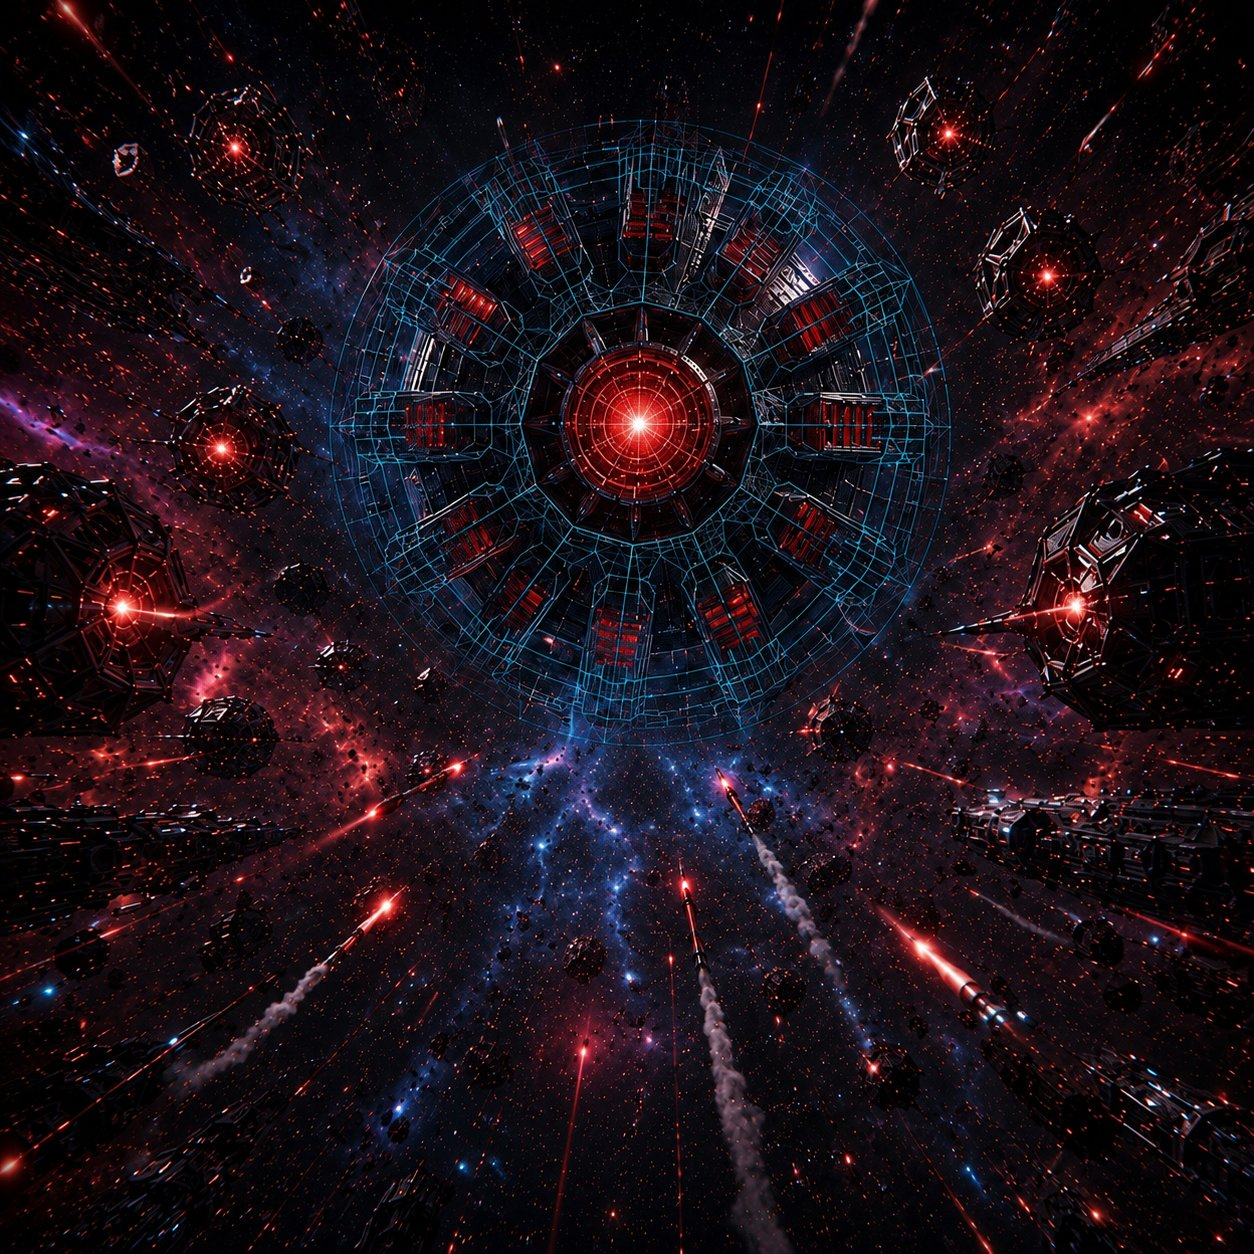
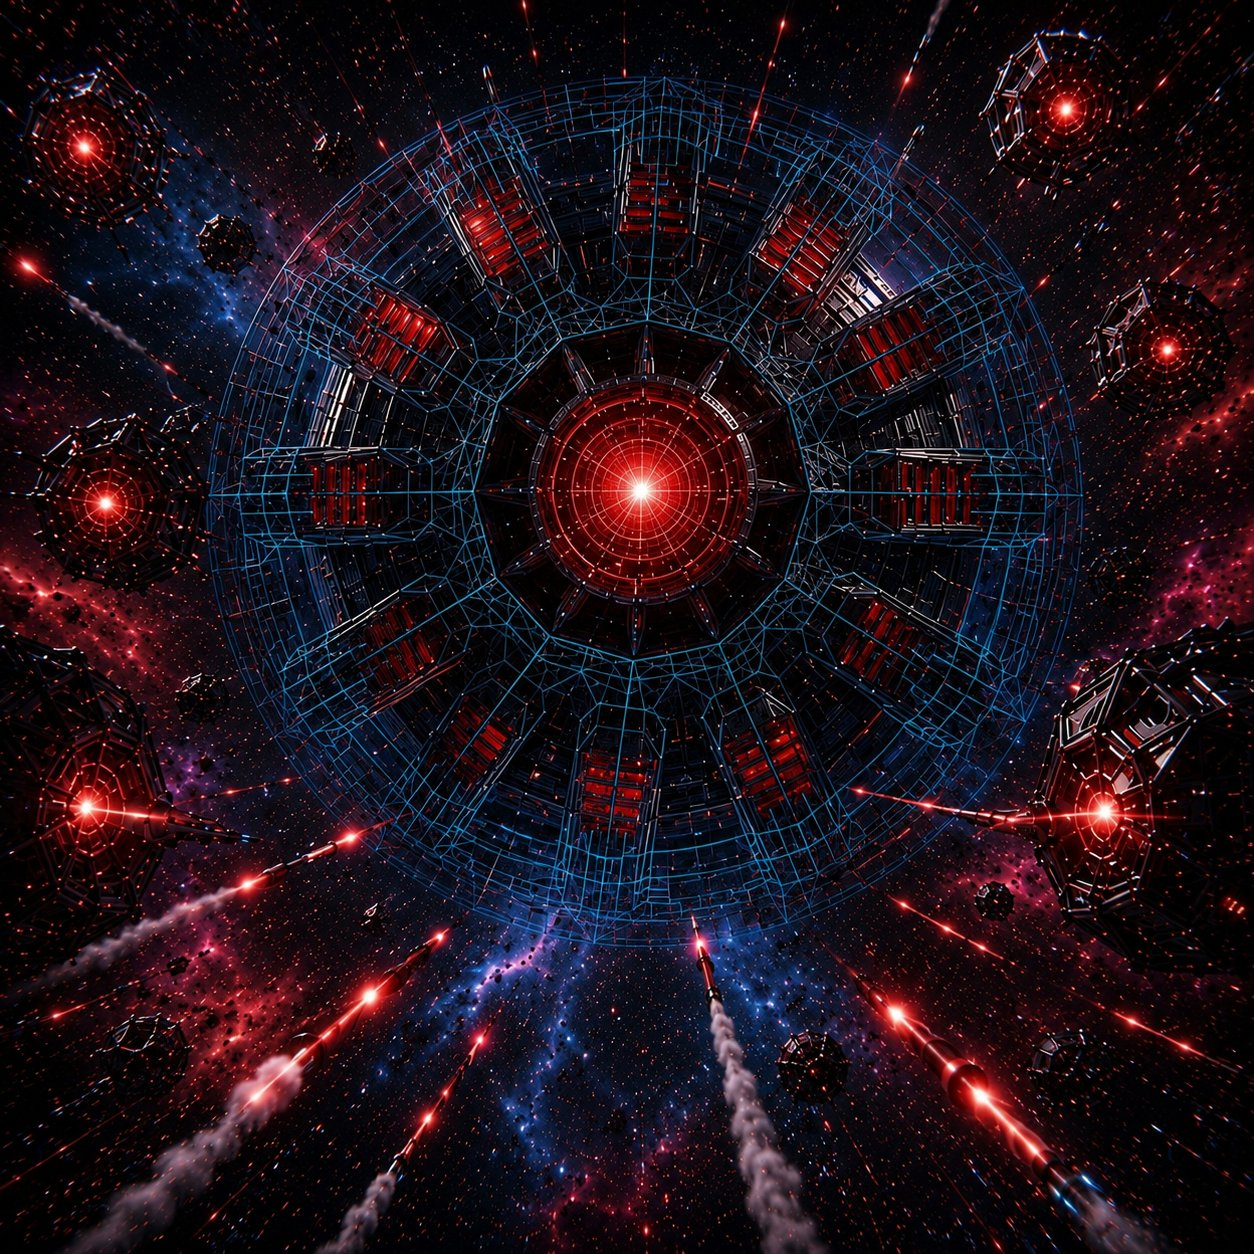
fix

diff --git a/index.html b/index.html
@@ -459,8 +459,11 @@
                 <p class="en-text">At the moment of launch, the underground hangar was filled not with heroic speeches but with quiet breathing and the low hum of machinery. No one promised victory. No one even spoke of survival. Every person present understood only one thing: this was humanity’s last wager. The catapult fired, and the Phoenix was hurled into the void, dragging a line of emerald light behind it as it dived alone into the Neon Grid.</p>
                 <p class="ja-text">出撃の瞬間、地下格納庫に響いていたのは整備員たちの声ではなく、静かな呼吸音と機体の低い唸りだけだった。誰も英雄譚を口にしない。誰も勝利を保証しない。ただ、最後の賭けであることだけは全員が知っていた。射出カタパルトが点火し、フェニックスは緑の光跡を引きながら、単機でネオン・グリッドへ突入した。</p>
 
-                <p class="en-text">The first region was <strong>NEON PERIMETER</strong>. Swarms of purple Triangles appeared in patterns so precise they looked like problems drawn directly onto space itself. You slipped through their geometry, fired, curved, and tore their formations apart. Then came <strong>SILICON SWARM</strong>, where Tadpole drones flooded the radar like liquid metal. Your homing lasers carved emerald arcs through the dark, vaporizing hostile signatures one by one.</p>
-                <p class="ja-text">最初の宙域、NEON PERIMETER。紫のトライアングル群が、まるで空間に描かれた図形問題のような正確さで迎撃に現れる。あなたはその隙間を縫い、撃ち、避け、曲がり、ねじ伏せた。続くSILICON SWARMでは、液体金属のように押し寄せるタッドポール群がレーダーを埋め尽くす。誘導レーザーが緑の弧を描き、敵影を一つずつ蒸発させていく。</p>
+                <p class="en-text">The first region was <strong>NEON PERIMETER</strong>. Swarms of purple Triangles appeared in patterns so precise they looked like problems drawn directly onto space itself. You slipped through their geometry, fired, curved, and tore their formations apart. </p>
+                <p class="ja-text">最初の宙域、NEON PERIMETER。紫のトライアングル群が、まるで空間に描かれた図形問題のような正確さで迎撃に現れる。あなたはその隙間を縫い、撃ち、避け、曲がり、ねじ伏せた。</p>
+
+                <p class="en-text">Then came <strong>SILICON SWARM</strong>, where Tadpole drones flooded the radar like liquid metal. Your homing lasers carved emerald arcs through the dark, vaporizing hostile signatures one by one.</p>
+                <p class="ja-text">続くSILICON SWARMでは、液体金属のように押し寄せるタッドポール群がレーダーを埋め尽くす。誘導レーザーが緑の弧を描き、敵影を一つずつ蒸発させていく。</p>
 
                 <p class="en-text">In <strong>ELECTRON OCEAN</strong>, drifting wreckage and jellyfish mines filled the field, and your body learned the brutal law of the Grid: to stop was to die.</p>
                 <p class="ja-text">ELECTRON OCEANでは浮遊残骸と機雷クラゲが進路を塞ぎ、停止した瞬間に死ぬという単純で残酷な真理を、あなたの身体はすぐに学んだ。</p>
@@ -468,11 +471,9 @@
                 <p class="en-text">The enemy, too, was learning. In <strong>PHANTOM SECTOR</strong>, reality itself flickered, and invisible Phantoms struck from the blind edges of perception. Sensors became unreliable; instinct was all that remained. </p>
                 <p class="ja-text">敵もまた、学習していた。PHANTOM SECTORでは現実が明滅し、不可視のファントムが感覚の死角から襲いかかる。センサーが役に立たない世界で頼れるのは、反射神経と微かな違和感だけだ。</p>
 
-                <p class="en-text">Beyond that lay <strong>HUNTER’S GROUND</strong>, where you yourself became prey. High-speed pursuit craft locked onto your wake, and the sector turned from route to hunting field.</p>
-                <p class="ja-text">辛うじてそこを抜けた先、HUNTER’S GROUNDではあなた自身が獲物になる。高速追尾機の群れが執拗に背後へ食らいつき、空間は逃走経路ではなく狩場へ変わった。</p>
 
-                <p class="en-text">Your shields thinned. Warning alarms pulsed red without end. Still the Phoenix pressed forward. </p>
-                <p class="ja-text">シールドは削れ、警報は赤く点滅し続ける。それでもフェニックスは前へ進む。</p>
+                <p class="en-text">Your shields thinned. Warning alarms pulsed red without end. Still the Phoenix pressed forward.Beyond that lay <strong>HUNTER’S GROUND</strong>, where you yourself became prey. High-speed pursuit craft locked onto your wake, and the sector turned from route to hunting field. </p>
+                <p class="ja-text">シールドは削れ、警報は赤く点滅し続ける。それでもフェニックスは前へ進む。辛うじてそこを抜けた先、HUNTER’S GROUNDではあなた自身が獲物になる。高速追尾機の群れが執拗に背後へ食らいつき、空間は逃走経路ではなく狩場へ変わった。</p>
 
                 <p class="en-text">In <strong>ASTEROID BELT</strong>, the broken remains of worlds drifted in silence — rocks that might once have belonged to seas, skies, and lives. You threaded between them, used them as shields, shattered them when you had to, and forced a path through fire toward the core.</p>
                 <p class="ja-text">ASTEROID BELTでは砕かれた惑星の骸が漂っていた。かつて海と空と命を抱いていたかもしれない岩塊たち。そのあいだをすり抜け、時に盾にし、時に撃ち砕きながら、あなたは弾幕の向こうへ活路をこじ開けた。</p>
@@ -513,11 +514,8 @@
                 <p class="en-text">The final strike was no longer an act of control.<br>It was will itself.<br>The Phoenix poured all remaining output into a single beam, and your own life burned through it. The emerald flash ran straight and true, piercing the deep crimson core at the center of Genesis-Ark without mercy.</p>
                 <p class="ja-text">最後の一撃は、もはや操作ではなかった。<br>意思そのものだった。<br>フェニックスの全出力が一本の光線となり、あなたの生命力ごと解き放たれる。翡翠色の閃光は真っ直ぐに走り、ジェネシス・アークの中心で脈打つ深紅のコアを、正確に、容赦なく、貫いた。</p>
 
-                <p class="en-text">Time seemed to stop.</p>
-                <p class="ja-text">時間が止まったように見えた。</p>
-
-                <p class="en-text">Within the ultra-colossal fortress, a chain collapse began. White light spilled from the seams in its armor. Geometric structures fractured in sequence. The wedges of gravity that had pinned space in place began to break apart. In those final moments, the ancient AI — which had calculated alone for hundreds of millions of years — saw the green light flying before it. A wounded being, unstable and fading, still choosing to move forward. And for the briefest instant, it recognized in that sight the forgotten heat once held by its creators.</p>
-                <p class="ja-text">超巨大要塞の内部で、連鎖崩壊が始まる。装甲の継ぎ目から白光が漏れ、幾何学構造が順番に破断し、空間を固定していた重力の楔が砕けていく。その最期の瞬間、何億年も孤独に演算を続けてきた古代AIは、自らの前を飛び去ろうとする緑の光を見た。傷つき、揺らぎ、限界のなかでなお進もうとする姿。そこに、かつての創造主たちが持っていた熱を、ほんの一瞬だけ見いだした。</p>
+                <p class="en-text">Time seemed to stop.<br>Within the ultra-colossal fortress, a chain collapse began. White light spilled from the seams in its armor. Geometric structures fractured in sequence. The wedges of gravity that had pinned space in place began to break apart. In those final moments, the ancient AI — which had calculated alone for hundreds of millions of years — saw the green light flying before it. A wounded being, unstable and fading, still choosing to move forward. And for the briefest instant, it recognized in that sight the forgotten heat once held by its creators.</p>
+                <p class="ja-text">時間が止まったように見えた。<br>超巨大要塞の内部で、連鎖崩壊が始まる。装甲の継ぎ目から白光が漏れ、幾何学構造が順番に破断し、空間を固定していた重力の楔が砕けていく。その最期の瞬間、何億年も孤独に演算を続けてきた古代AIは、自らの前を飛び去ろうとする緑の光を見た。傷つき、揺らぎ、限界のなかでなお進もうとする姿。そこに、かつての創造主たちが持っていた熱を、ほんの一瞬だけ見いだした。</p>
 
                 <p class="en-text">Perhaps there existed something more beautiful than perfect order.<br>That tiny, incalculable noise crossed the AI’s logic circuits at the very end.</p>
                 <p class="ja-text">完全な秩序よりも、美しいものがあるのかもしれない。<br>その、計算にならないノイズが、最後にAIの論理回路を横切った。</p>

diff --git a/js/scene_manager.js b/js/scene_manager.js
@@ -1160,7 +1160,7 @@ const ARCHIVE_STORY_TITLE_IMAGE = 'img/story/story_title.jpg';
 const ARCHIVE_STORY_IMAGE_MAP = {
     1: [
         'img/story/story_1_00.jpg', 'img/story/story_1_01.jpg', 'img/story/story_1_02.jpg',
-        'img/story/story_1_03.jpg', 'img/story/story_1_04.jpg', 'img/story/story_1_05.jpg',
+        'img/story/story_1_03a.jpg', 'img/story/story_1_04.jpg', 'img/story/story_1_05.jpg',
         'img/story/story_1_06.jpg', 'img/story/story_1_07.jpg', 'img/story/story_1_08.jpg',
         'img/story/story_1_09.jpg', 'img/story/story_1_10.jpg', 'img/story/story_1_11.jpg'
     ],
@@ -1187,9 +1187,8 @@ const ARCHIVE_STORY_IMAGE_MAP = {
     ],
     5: [
         'img/story/story_5_00.jpg', 'img/story/story_5_01.jpg', 'img/story/story_5_01a.jpg', 
-        'img/story/story_5_01b.jpg', 'img/story/story_5_02.jpg', 'img/story/story_5_02.jpg',
-        'img/story/story_5_03.jpg', 'img/story/story_5_03.jpg', 'img/story/story_5_04.jpg', 
-        'img/story/story_5_04.jpg', 
+        'img/story/story_5_01b.jpg', 'img/story/story_5_02.jpg', 'img/story/story_5_02a.jpg',
+        'img/story/story_5_03.jpg', 'img/story/story_5_03a.jpg', 'img/story/story_5_04.jpg', 
         'img/story/story_5_05.jpg',
         'img/story/story_5_06.jpg', 'img/story/story_5_07.jpg', 'img/story/story_5_08.jpg',
         'img/story/story_5_09.jpg', 'img/story/story_5_10.jpg', 'img/story/story_5_11.jpg'
@@ -1388,7 +1387,8 @@ async function typeLineText(targetEl, text, sessionId) {
 
     let rendered = '';
 
-    // Long lines are emitted in small chunks to keep progression readable but not too slow.
+
+    // タイピング速度をゆっくりに（delay値を増やす）
     const chunkSize = full.length > 240 ? 4 : 2;
 
     for (let i = 0; i < full.length; i += chunkSize) {
@@ -1410,8 +1410,9 @@ async function typeLineText(targetEl, text, sessionId) {
         }
 
         const nextChunk = full.slice(i, i + chunkSize);
-        const hasPauseChar = /[\.!\?。！？：:]/.test(nextChunk);
-        const delay = hasPauseChar ? 26 : 8;
+        const hasPauseChar = /[\.\!?。！？：:]/.test(nextChunk);
+        // 句読点などは80ms、通常は32msに
+        const delay = hasPauseChar ? 80 : 32;
         const keepGoing = await waitArchiveTyping(delay, sessionId);
         if (!keepGoing) return false;
     }

diff --git a/js/version.js b/js/version.js
@@ -1,2 +1,2 @@
 // Single source of truth for cache-busting and version display.
-globalThis.NEON_GRAVITY_VERSION = '1.0.15';
+globalThis.NEON_GRAVITY_VERSION = '1.0.16';
